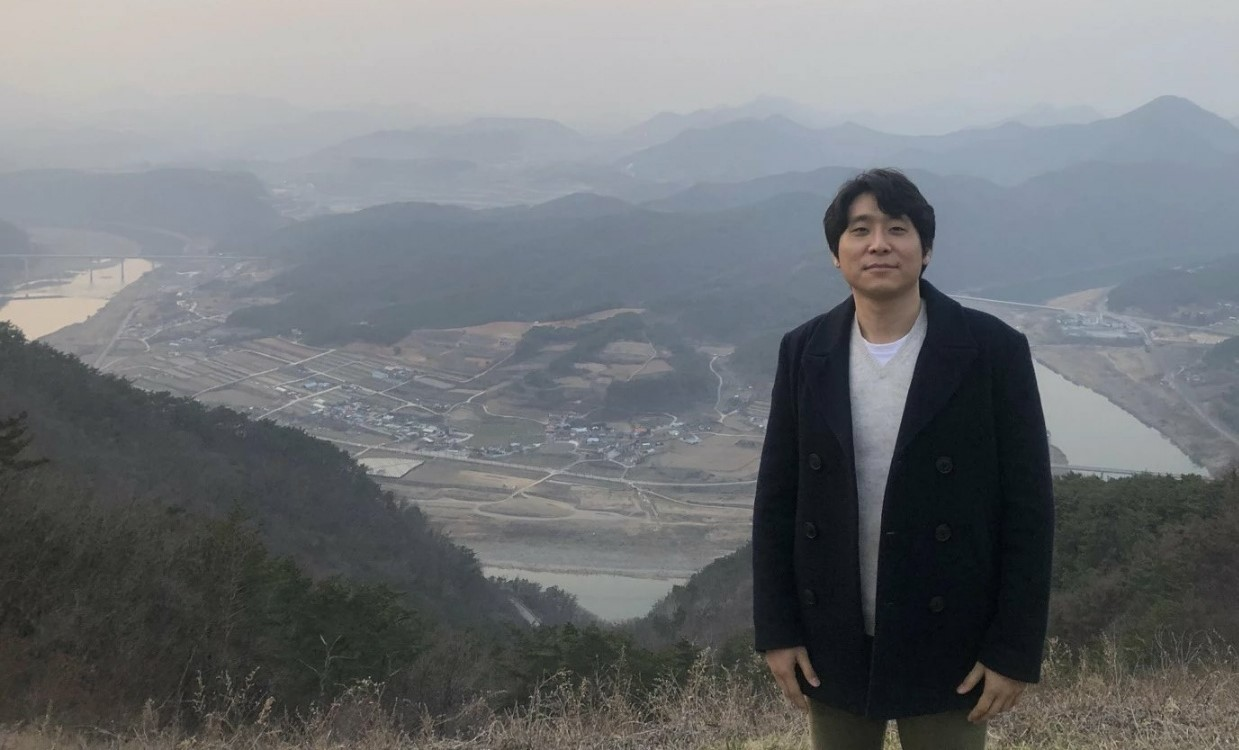
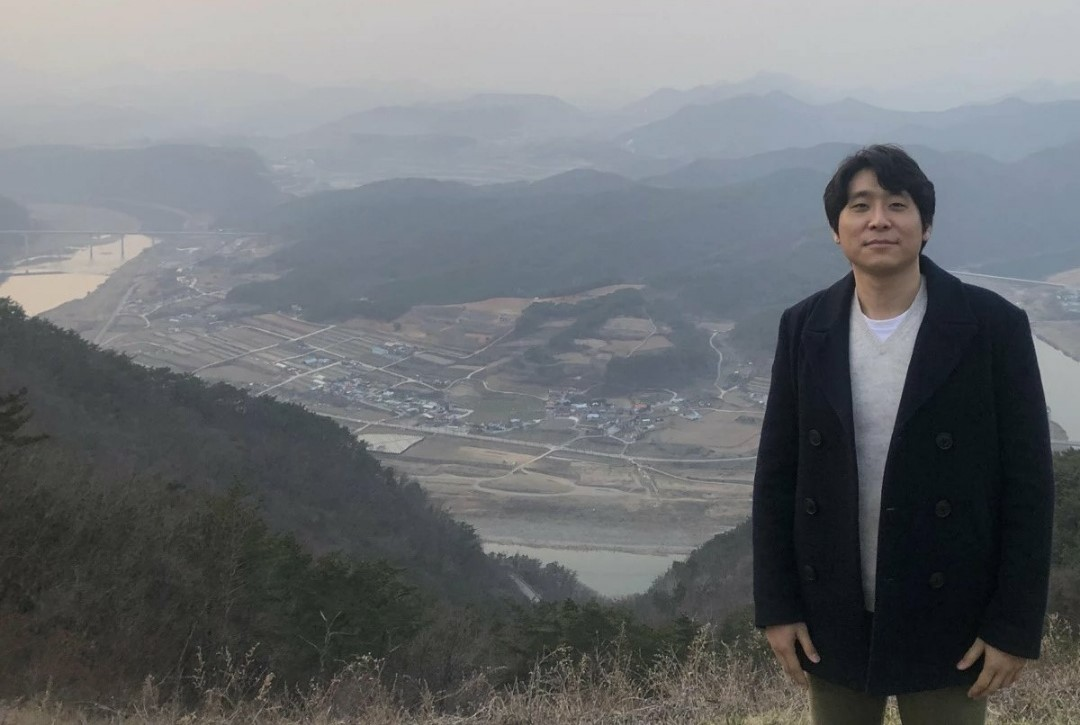
about section styling revised

diff --git a/src/components/About.js b/src/components/About.js
@@ -1,0 +1,48 @@
+import React from "react";
+import image from ".././images/image3.jpg";
+
+import ".././App.css";
+
+const About = () => {
+  return (
+    <div className="container">
+      <div className="row">
+        <div className="col">
+          <h3>01.About</h3>
+          <p>Who I am and What I want to Accomplish</p>
+        </div>
+      </div>
+      <div className="row aboutContent" style={{border: "1px solid red" }}>
+        <div className="col-5 p-0 text-end imageContainer" style={{border: "1px solid blue" }}>
+          <img
+            className="img-fluid aboutImage "
+            src={image}
+            alt="about-image"
+            // style={{minHeight:"100%", width:"auto"}}
+          ></img>
+        </div>
+        <div className="col-7 card px-5 cardOverlap" style={{border: "1px solid blue" }}>
+          {/* <div className="card px-5 "> */}
+            <div className="card-body">
+              <h5 className="card-title">
+                I want to build things that makes life better for everyone.
+              </h5>
+            </div>
+          {/* </div> */}
+        </div>
+      </div>
+      <div className="row visually-hidden">
+        <div className="col">
+          <h4>Stephen's Toolbox</h4>
+        </div>
+      </div>
+      <div className="row visually-hidden">
+        <div className="col">
+          <div className="card h-100"></div>
+        </div>
+      </div>
+    </div>
+  );
+};
+
+export default About;

diff --git a/src/App.css b/src/App.css
@@ -9,3 +9,61 @@
   top: 30px;
   left: 30px;
 }
+
+.front{
+ min-height: 100vh;
+ background-image: url("./images/image1.jpg");
+ /* filter: brightness(0.505); */
+ background-repeat: no-repeat;
+ background-size: 100% auto;
+
+ display: flex;
+ justify-content: center;
+ flex-direction: column;
+}
+
+.front>h1, .front>h5{
+  text-align: center;
+  color: white;
+
+  z-index: 1;
+
+}
+
+.tint{
+  background-color: black;
+  opacity: 0.5;
+  position: absolute;
+  min-height: 100vh;
+  width: 100%;
+}
+
+/* .frontImage{
+  width: 100%;
+  filter: brightness(0.505);
+} */
+
+.aboutContent{
+  height: 60vh;
+}
+
+.imageContainer{
+  /* position: relative; */
+  /* left: 30px; */
+  z-index: 1;
+  height: 100%;
+ 
+}
+.aboutImage {
+  height: 100%;
+}
+
+.cardOverlap{
+  position: relative;
+  right: 30px;
+  bottom:40px;
+  z-index: 0;
+  height: 120%;
+  width: 40%;
+
+}

diff --git a/src/components/Front.js b/src/components/Front.js
@@ -2,7 +2,16 @@ import React from 'react';
 import image from ".././images/image1.jpg";
 
 const Front = () => {
-    return(<img src={image} alt="image" style={{objectFit:"cover"}}></img>);
+    return(
+        <>
+        <div className='front'>
+            <div className='tint'></div>
+            <h1>Stephen Wuh</h1>
+            <h5>Web Developer/Software Engineer</h5>
+        </div>
+        
+        </>
+        );
 }
 
 export default Front;

diff --git a/src/components/Nav.js b/src/components/Nav.js
@@ -7,10 +7,7 @@ import Box from "@mui/material/Box";
 import Drawer from "@mui/material/Drawer";
 import List from "@mui/material/List";
 import ListItem from "@mui/material/ListItem";
-import ListItemIcon from "@mui/material/ListItemIcon";
 import ListItemText from "@mui/material/ListItemText";
-import InboxIcon from "@mui/icons-material/MoveToInbox";
-import MailIcon from "@mui/icons-material/Mail";
 
 import ".././App.css";
 

diff --git a/src/App.js b/src/App.js
@@ -1,12 +1,15 @@
 import React from 'react';
-import Nav from './components/Nav'
-import Front from './components/Front'
+import Nav from './components/Nav';
+import Front from './components/Front';
+import About from './components/About';
 
 function App() {
   return (
     <div className="App">
-      <Nav />
+  
       <Front />
+      {/* <Nav /> */}
+      <About />
     </div>
   );
 }
